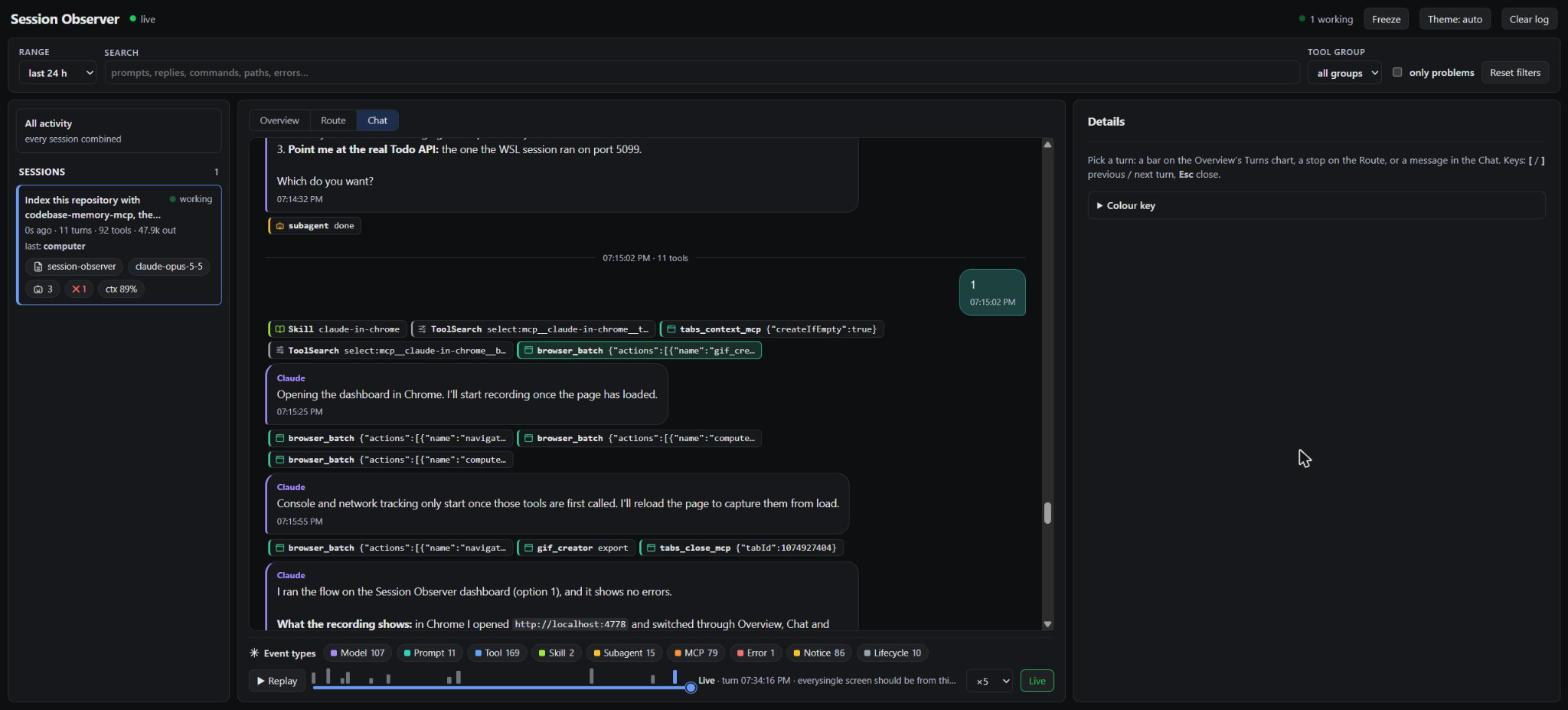
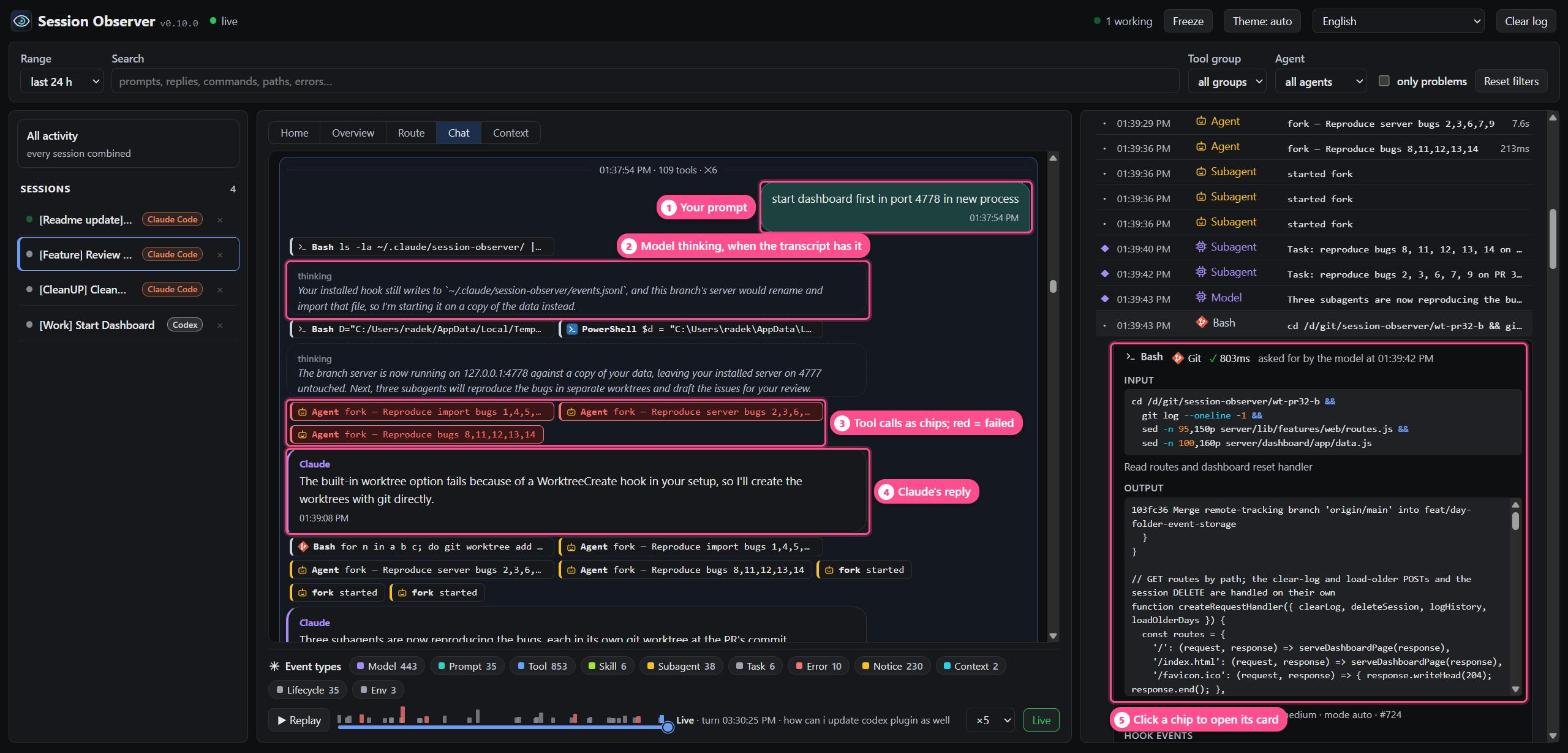
docs: annotated README screenshots from the real dashboard
Retake Home, Overview, Route, Chat and Context in Chrome from real Claude
Code and Codex sessions, with numbered labels on the main parts of each
view. Replace the demo PNGs with the new JPGs and rewrite the captions.

diff --git a/README.md b/README.md
@@ -8,27 +8,27 @@
 
 ## Screenshots
 
-Screenshots use the synthetic demo sessions.
+Screenshots come from real Claude Code and Codex sessions. The numbered labels were added for this README; the dashboard doesn't show them.
 
-![Home groups sessions by project](docs/home.png)
+![Home with sessions grouped by project, agent badges, status and nested subagents](docs/home.jpg)
 
-*Home: see sessions and what needs attention.*
+*Home: every session by project, with its agent, status and subagents.*
 
-![Overview with session metrics, turns and activity charts](docs/overview.png)
+![Overview with session totals, a Turns chart, context over time, activity by group and the open turn in Details](docs/overview.jpg)
 
-*Overview: turns, tools, context and failures.*
+*Overview: totals, one bar per turn, context use and activity. Click a bar to open the turn.*
 
-![Route with parallel subagents and their tool calls](docs/route.png)
+![Route of one turn with three parallel subagents and an open tool call](docs/route.jpg)
 
-*Route: follow a turn through tools and agents.*
+*Route: follow a turn through tool calls and parallel subagents. Click a stop to see its input and output.*
 
-![Chat with prompts, replies and tool calls](docs/chat.png)
+![Chat with a prompt, model thinking, failed agent calls and a reply](docs/chat.jpg)
 
-*Chat: prompts, replies and tool calls.*
+*Chat: prompts, thinking, tool chips and replies in order.*
 
-![Context view with context usage and transcript entries](docs/context.png)
+![Context view with a context window grid and estimated tokens by category](docs/context.jpg)
 
-*Context: inspect usage and transcript records.*
+*Context: what fills the context window, down to each record.*
 
 ## How it works
 
